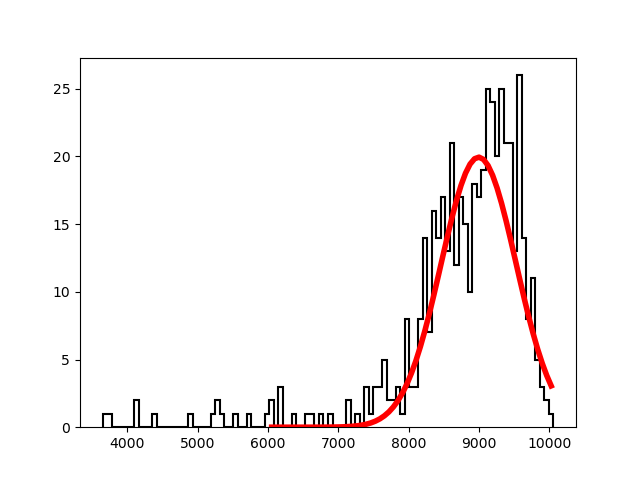
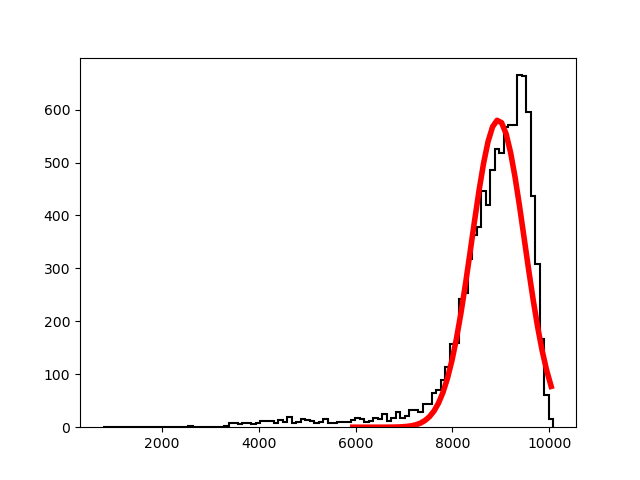
updated plots

diff --git a/sipmstudy_eres.py b/sipmstudy_eres.py
@@ -18,9 +18,9 @@ from fit_functions import fit_energy, plot_fit_energy, print_fit_energy, get_fit
 from ic_functions import *
 
 print("Starting")
-nfiles = 5 # will fail if too few events
+nfiles = 10 # will fail if too few events
 local = False
-event_type = 'kr'
+event_type = 'qbb'
 
 # Create dictionary to hold run info
 print("Creating dictionaries")
